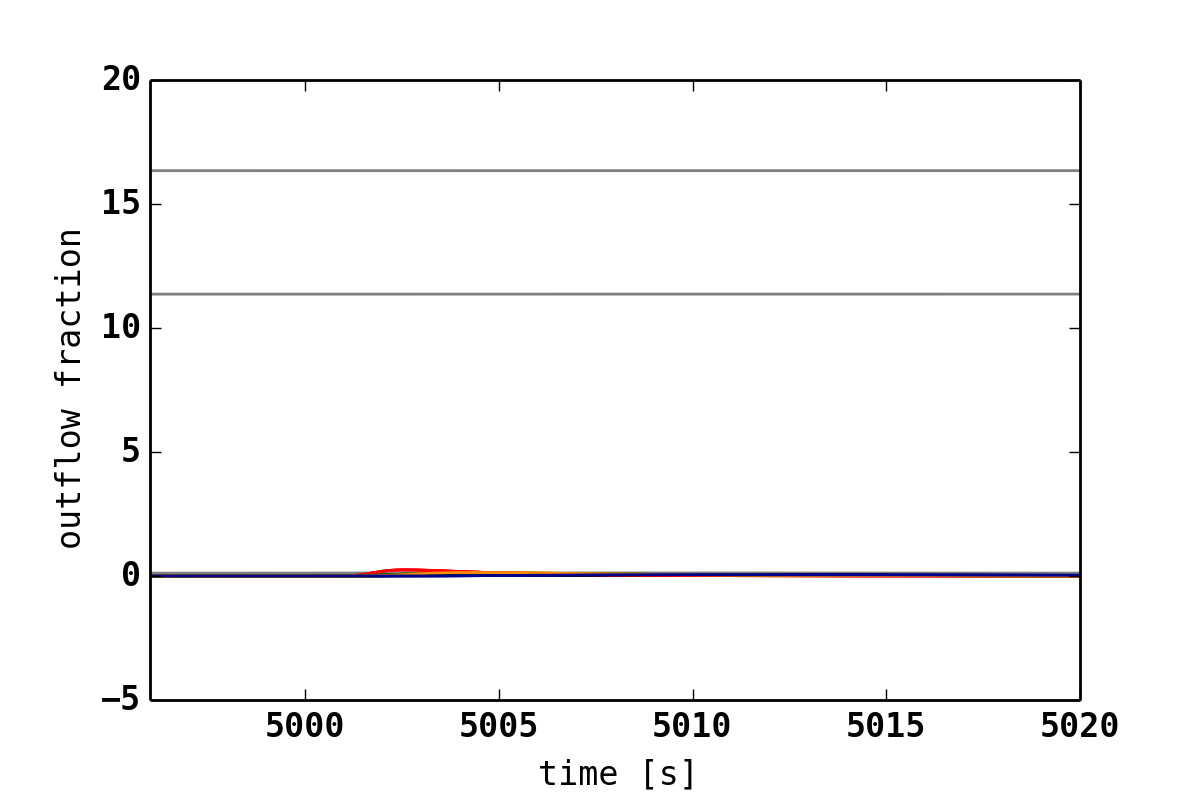
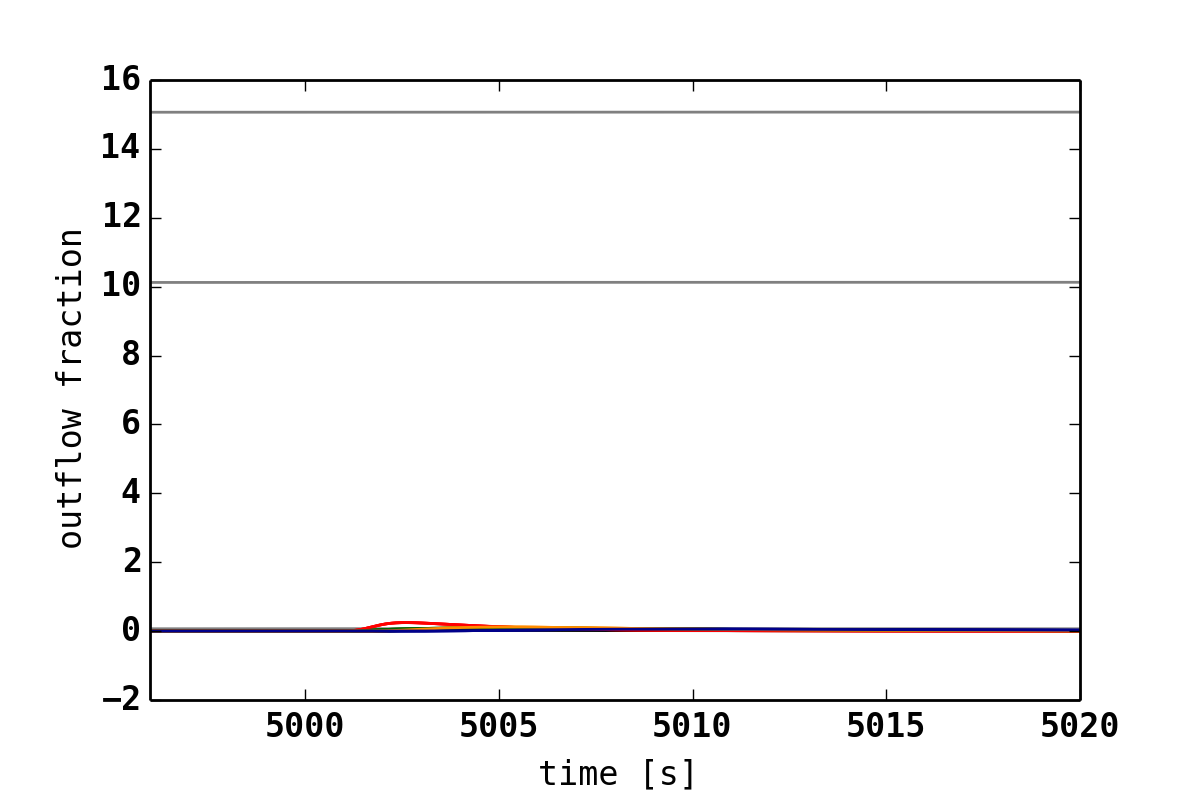
First version of final parameters

diff --git a/python/simulator/simulator/roadrunner_tools/galactose_challenge.py b/python/simulator/simulator/roadrunner_tools/galactose_challenge.py
@@ -9,17 +9,14 @@ Here the clearance parameters and the GEC can be calculated from the model.
 @author: Matthias Koenig
 @date: 2014-01-15
 '''
-import roadrunner
+
 import roadrunner_tools as rt
-import dilution_plots as dp
 
 #########################################################################    
 # Load model
 #########################################################################    
 VERSION = 93
-NC = 20
 SBML_DIR = '/home/mkoenig/multiscale-galactose-results/tmp_sbml'
-
 sbml_file = SBML_DIR + '/' + 'Galactose_v{}_Nc20_galchallenge.xml'.format(VERSION)
 r = rt.load_model(sbml_file)
 
@@ -48,14 +45,15 @@ flow_sin = np.arange(start=0, stop=0.8, step=0.05) * r.flow_sin # [m/s] (scaling
 # PP__gal = (0.28, 5, 12.5, 17.5) # [mM]
 p_list = []
 for f in flow_sin:
-    d = { "gal_challenge" : 8, 
-              "flow_sin" : f,
-              "y_dis" : 2.4E-6,
+    d = { "gal_challenge" : 8,  
+              "flow_sin" : f,    
+              "y_dis" : 2.0E-6,
+              "y_cell" : 6.19E-6,
               "f_cyto" : 0.5,
-              "scale_f" : 0.425,
-              # "GALK_PA" : 0.02,
-              "H2OT_f": 8.0,
-              "GLUT2_f" : 14, 
+              "scale_f" : 0.57,
+              "GALK_PA" : 0.02*1.2,
+              "GLUT2_f" : 10.0,              
+              "H2OT_f": 8.0,      
              }
     p_list.append(d)
 
@@ -71,7 +69,11 @@ s_list = [rt.simulation(r, p, inits, absTol=1E-4, relTol=1E-4) for p in p_list]
 # calculate the GEC for given simulation
 import numpy as np
 Q_sinunit = np.pi * r.y_sin**2 * flow_sin # [m³/s]
-Vol_sinunit = r.Vol_sinunit
+Vol_sinunit = r.Vol_sinunit   # has to be calculated with the actual variables
+print Vol_sinunit
+r.L * np.pi * (r.y_sin + r.y_end + r.y_dis + r.y_cell*1.2)**2
+
+
 
 # Removal
 GEC = np.zeros(len(flow_sin))
@@ -119,14 +121,15 @@ p.show()
 
 
 # Real GEC value liver
-f_vol = 0.8 # [-] volume which is parenchyma
-vol_liv = 1650 # [ml] reference volume liver
+f_vol = 0.75 # [-] volume which is parenchyma
+vol_liv = 1500 # [ml] reference volume liver
 
-print 'Q_fac cor:', Q_fac * f_vol
+print 'Q_fac cor:', f_vol * Q_fac 
+print 'GEC cor:', f_vol*max(GEC)*vol_liv
 
-p.plot(f_vol*Q, GEC*vol_liv, '-k')
-p.plot(f_vol*Q, GEC*vol_liv, 'ok')
-p.plot([f_vol*Q_fac, f_vol*Q_fac], [0, max(GEC)*vol_liv])
+p.plot(f_vol*Q, f_vol*GEC*vol_liv, '-k')
+p.plot(f_vol*Q, f_vol*GEC*vol_liv, 'ok')
+p.plot([f_vol*Q_fac, f_vol*Q_fac], [0, f_vol*max(GEC)*vol_liv])
 p.xlabel('P [ml/min/ml(liv)]')
 p.ylabel('GEC liver [mmole/min]')
 p.title('GEC liver vs. Perfusion')

diff --git a/python/simulator/simulator/roadrunner_tools/galactose_dilution_flux.py b/python/simulator/simulator/roadrunner_tools/galactose_dilution_flux.py
@@ -52,7 +52,6 @@ flow_sin = f_fac * flux * 1E-6 # [m/s] (scaling to calculate in correct volume f
 # flux sample the simulation is performed.
 
 
-
 gal_p_list = []
 # for gal in [0.28]:
 for gal in [0.28, 12.5, 17.5]:
@@ -64,10 +63,10 @@ for gal in [0.28, 12.5, 17.5]:
               "y_dis" : 2.0E-6,
               "y_cell" : 6.19E-6,
               "f_cyto" : 0.5,
-              "scale_f" : 0.425,
-              # "GALK_PA" : 0.02,
-              "H2OT_f": 8.0,
-              "GLUT2_f" : 16, 
+              "scale_f" : 0.57,
+              "GALK_PA" : 0.02*1.2,
+              "GLUT2_f" : 10.0,              
+              "H2OT_f": 8.0,               
               }
         p_list.append(d)
     gal_p_list.append(p_list)
@@ -114,9 +113,9 @@ show_plots=True
 
 # flux dependency of dilution profiles
 tlim = [T_PEAK-4, T_PEAK+20]
-rp.flux_plots(f_list, sel, xlim=tlim, show=show_plots)
+# rp.flux_plots(f_list, sel, xlim=tlim, show=show_plots)
 # average curves
-rp.average_plots(timepoints, av_mats, xlim=tlim, show=show_plots)
+# rp.average_plots(timepoints, av_mats, xlim=tlim, show=show_plots)
 
 # plot with experimental data
 # rp.plot_data_with_sim(exp_data, timepoints, av_mats, scale=4.0*15.16943, time_shift=1.5)
